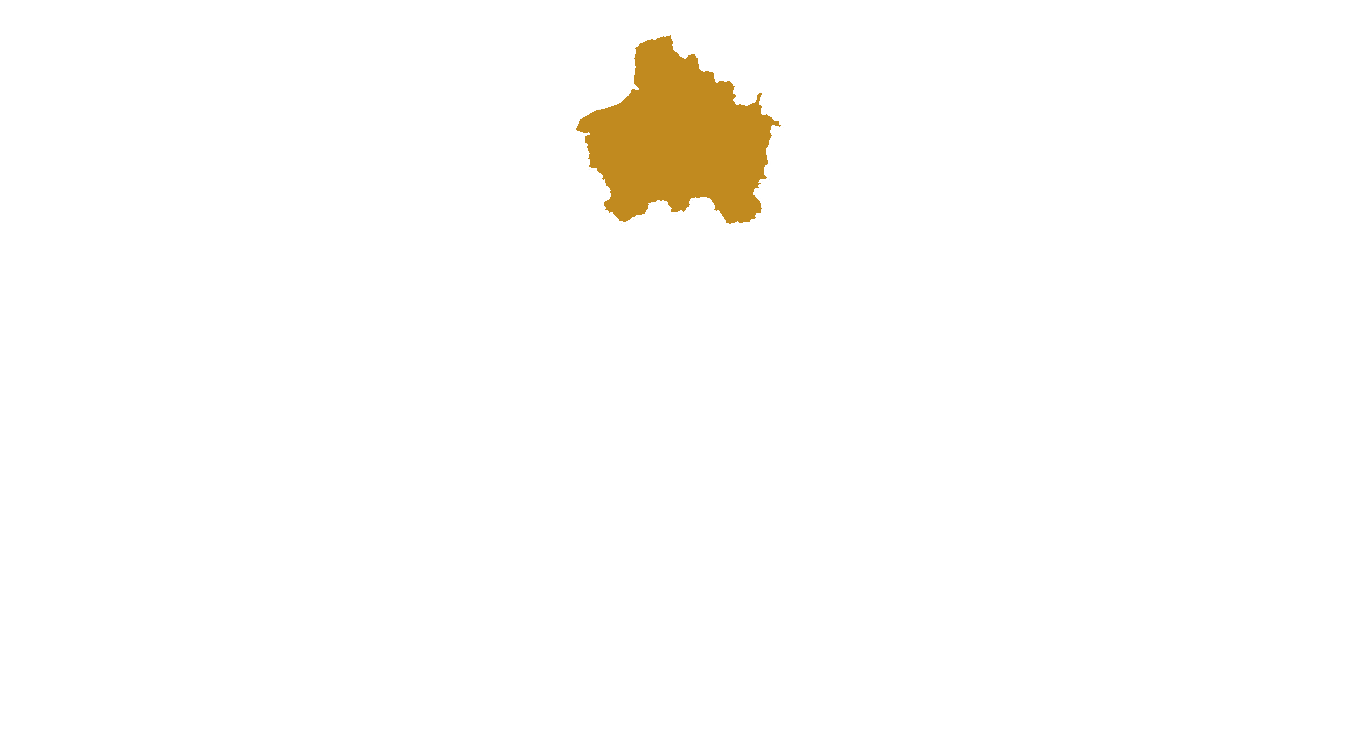
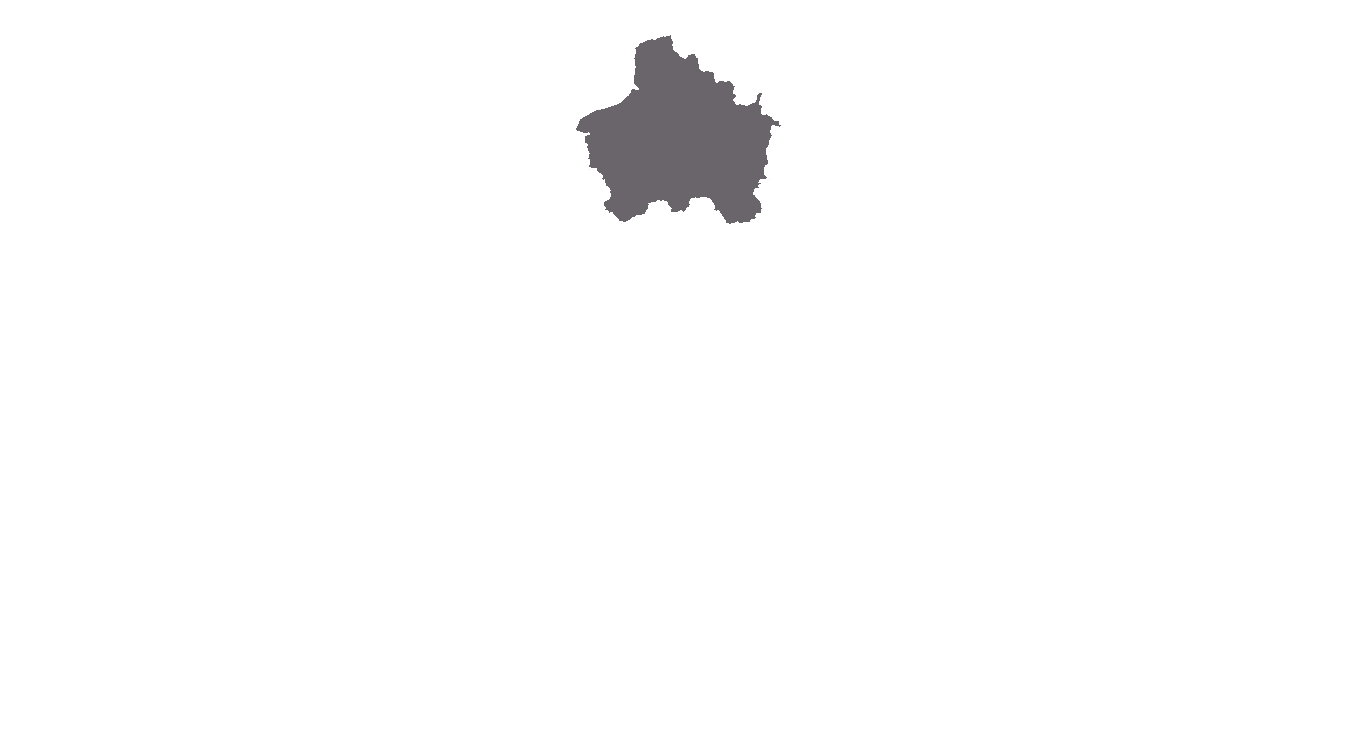
Ajout fonction changement de couleur d'une zone
3 Images par région (safe/neutral/unsafe)
Quand on clique sur un des boutons la carte devient plus ou moins polluée (changement des opacités)

Changed region(s): [[0.4044, 0.0307, 0.5911, 0.3067]]

diff --git a/Jeu/js/main.js b/Jeu/js/main.js
@@ -3,11 +3,23 @@ var game = new Phaser.Game(1350, 750, Phaser.AUTO, '', { preload:preload, create
 function preload() {
 
 	game.load.image('frZo1', 'assets/img/france_zone1.png');
+	game.load.image('frZo1P', 'assets/img/france_zone1_pollute.png');
+	game.load.image('frZo1S', 'assets/img/france_zone1_safe.png');
 	game.load.image('frZo2', 'assets/img/france_zone2.png');
+	game.load.image('frZo2P', 'assets/img/france_zone2_pollute.png');
+	game.load.image('frZo2S', 'assets/img/france_zone2_safe.png');
 	game.load.image('frZo3', 'assets/img/france_zone3.png');
+	game.load.image('frZo3P', 'assets/img/france_zone3_pollute.png');
+	game.load.image('frZo3S', 'assets/img/france_zone3_safe.png');
 	game.load.image('frZo4', 'assets/img/france_zone4.png');
+	game.load.image('frZo4P', 'assets/img/france_zone4_pollute.png');
+	game.load.image('frZo4S', 'assets/img/france_zone4_safe.png');
 	game.load.image('frZo5', 'assets/img/france_zone5.png');
+	game.load.image('frZo5P', 'assets/img/france_zone5_pollute.png');
+	game.load.image('frZo5S', 'assets/img/france_zone5_safe.png');
 	game.load.image('frZo6', 'assets/img/france_zone6.png');
+	game.load.image('frZo6P', 'assets/img/france_zone6_pollute.png');
+	game.load.image('frZo6S', 'assets/img/france_zone6_safe.png');
 	
 	game.load.image('buBa', 'assets/img/button_background.png');
 
@@ -17,27 +29,98 @@ function preload() {
 
 	game.load.image('buMiNo', 'assets/img/button_mission_notification.png');
 
-};
+	game.load.image('frZo21', 'assets/img/france_zone2_1.png');
+}
 
 function create() {
-	game.stage.backgroundColor = '#accde6'
-	var frZo1 = game.add.sprite(0, 0, 'frZo1');
-	var frZo2 = game.add.sprite(0, 0, 'frZo2');
-	var frZo3 = game.add.sprite(0, 0, 'frZo3');
-	var frZo4 = game.add.sprite(0, 0, 'frZo4');
-	var frZo5 = game.add.sprite(0, 0, 'frZo5');
-	var frZo6 = game.add.sprite(0, 0, 'frZo6');
+	game.stage.backgroundColor = '#141414';
+	var frZo1 = game.add.image(0, 0, 'frZo1');
+	var frZo1P = game.add.image(0, 0, 'frZo1P');
+	var frZo1S = game.add.image(0, 0, 'frZo1S');
+	var frZo2 = game.add.image(0, 0, 'frZo2');
+	var frZo2P = game.add.image(0, 0, 'frZo2P');
+	var frZo2S = game.add.image(0, 0, 'frZo2S');
+	var frZo3 = game.add.image(0, 0, 'frZo3');
+	var frZo3P = game.add.image(0, 0, 'frZo3P');
+	var frZo3S = game.add.image(0, 0, 'frZo3S');
+	var frZo4 = game.add.image(0, 0, 'frZo4');
+	var frZo4P = game.add.image(0, 0, 'frZo4P');
+	var frZo4S = game.add.image(0, 0, 'frZo4S');
+	var frZo5 = game.add.image(0, 0, 'frZo5');
+	var frZo5P = game.add.image(0, 0, 'frZo5P');
+	var frZo5S = game.add.image(0, 0, 'frZo5S');
+	var frZo6 = game.add.image(0, 0, 'frZo6');
+	var frZo6P = game.add.image(0, 0, 'frZo6P');
+	var frZo6S = game.add.image(0, 0, 'frZo6S');
 
 	var buBa = game.add.sprite(28, 653, 'buBa');
-
-	var buMi = game.add.button(579, 620, 'buMi', function(){console.log('click');}, this);
-	var buSk = game.add.button(1006, 653, 'buSk', function(){console.log('click');}, this);
-	var buSt = game.add.button(10, 653, 'buSt', function(){console.log('click');}, this);
+	var buMi = game.add.button(579, 620, 'buMi');
+	var buSk = game.add.button(1006, 653, 'buSk', function() {
+		colorswap(frZo1, frZo1P, frZo1S, true);
+		colorswap(frZo2, frZo2P, frZo2S, true);
+		colorswap(frZo3, frZo3P, frZo3S, true);
+		colorswap(frZo4, frZo4P, frZo4S, true);
+		colorswap(frZo5, frZo5P, frZo5S, true);
+		colorswap(frZo6, frZo6P, frZo6S, true);
+	}, this);
+	var buSt = game.add.button(10, 653, 'buSt', function() {
+		colorswap(frZo1, frZo1P, frZo1S, false);
+		colorswap(frZo2, frZo2P, frZo2S, false);
+		colorswap(frZo3, frZo3P, frZo3S, false);
+		colorswap(frZo4, frZo4P, frZo4S, false);
+		colorswap(frZo5, frZo5P, frZo5S, false);
+		colorswap(frZo6, frZo6P, frZo6S, false);
+	}, this);
 
 	// À rajouter après les autres boutons pour être par-dessus
 	var buMiNo = game.add.sprite(795, 608, 'buMiNo');
-};
+
+}
 
 function upload() {
 
+}
+
+var colorswap = function(grey, brown, green, upgrade) {
+	// On améliore la map
+	if(upgrade === true) {
+		// Cas où la map est soit grise soit verte
+		if(brown.alpha === 0) {
+			// Cas où la map est déjà verte
+			if(green.alpha === 1) {
+				return 0;
+			}
+			// Cas où la map est grise et devient verte
+			else {
+				grey.alpha = parseFloat((grey.alpha - 0.1).toFixed(1));
+				green.alpha = parseFloat((green.alpha + 0.1).toFixed(1));
+			}
+		}
+		// Cas où la map est marron et devient grise
+		else {
+			brown.alpha = parseFloat((brown.alpha - 0.1).toFixed(1));
+			grey.alpha = parseFloat((grey.alpha + 0.1).toFixed(1));
+		}
+		
+	}
+	// On altère la map
+	else if(upgrade === false) {
+		// Cas où la map est soit grise soit marron
+		if(green.alpha === 0) {
+			// Cas où la map est déjà marron
+			if(brown.alpha === 1) {
+				return 0;
+			}
+			// Cas où la map est grise et devient marron
+			else {
+				grey.alpha = parseFloat((grey.alpha - 0.1).toFixed(1));
+				brown.alpha = parseFloat((brown.alpha + 0.1).toFixed(1));
+			}
+		}
+		// Cas où la map est verte et devient grise
+		else {
+			green.alpha = parseFloat((green.alpha - 0.1).toFixed(1));
+			grey.alpha = parseFloat((grey.alpha + 0.1).toFixed(1));	
+		}
+	}
 };
